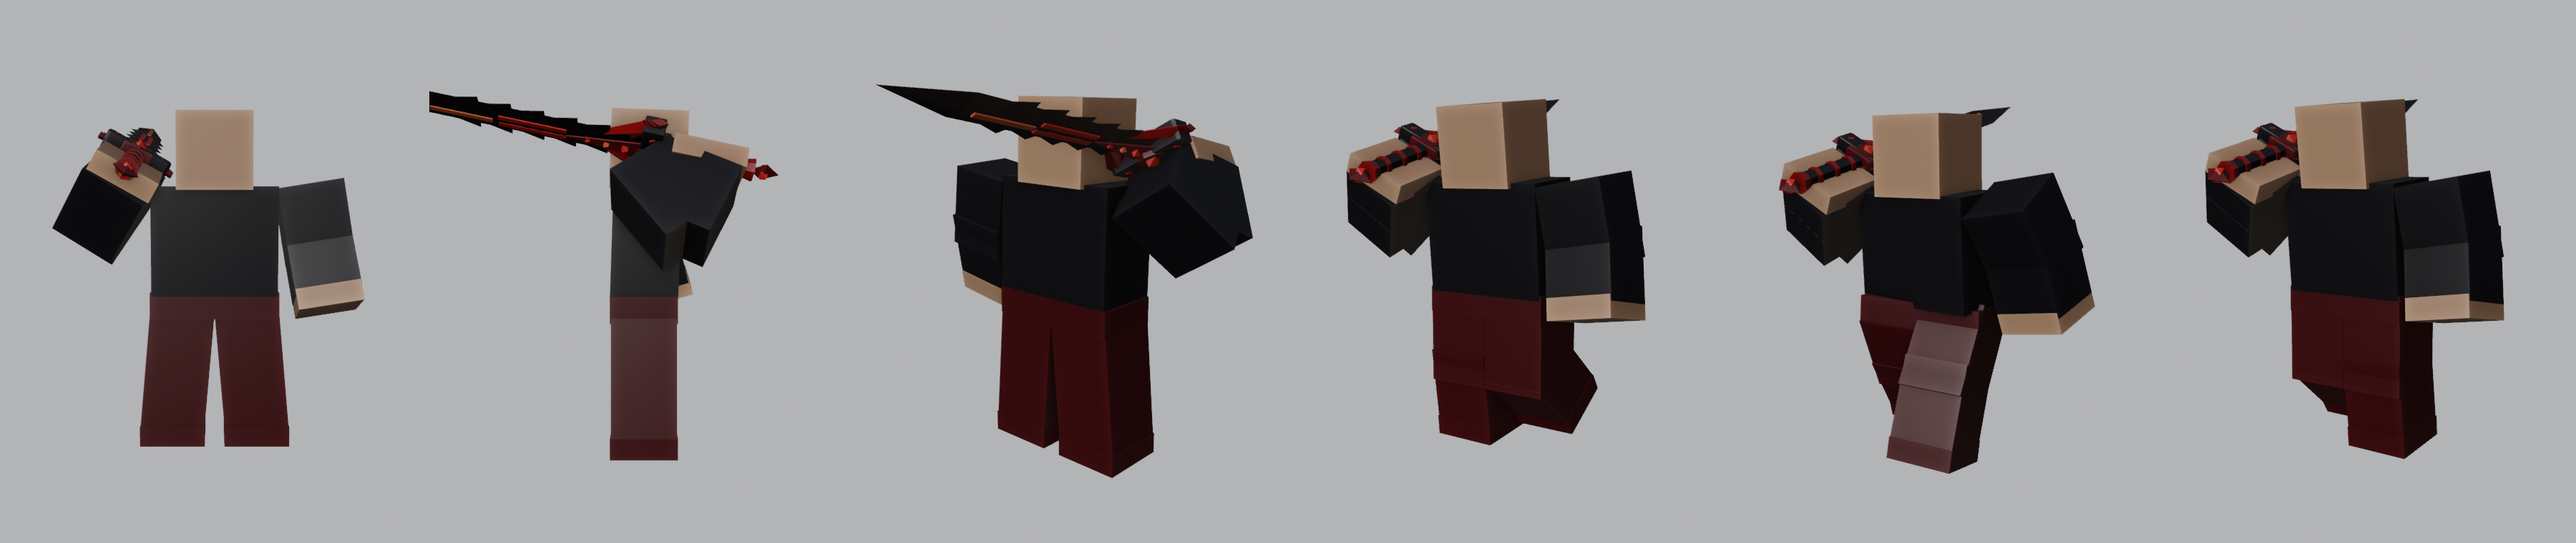
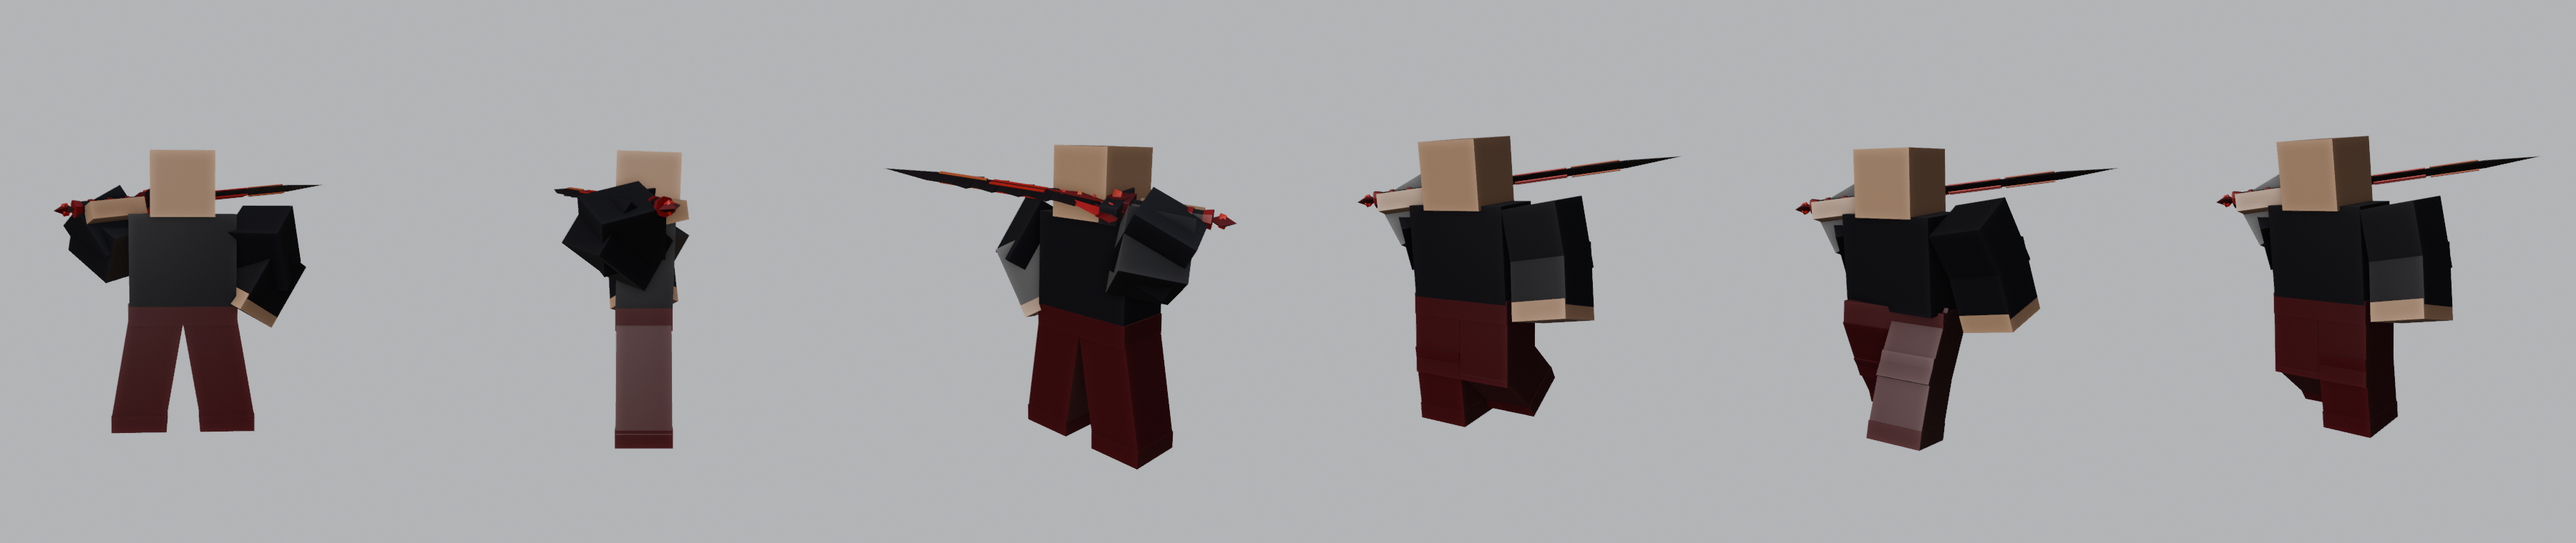
Sword carry: owner's pose 3, blade across the shoulders, hand on hip (GAME-35)

diff --git a/scripts/18_r15_anims.py b/scripts/18_r15_anims.py
@@ -1,6 +1,6 @@
 # 18_r15_anims.py: player sword animations on the R15 rig from 17_r15_rig.py (GAME-35).
-#   SwordIdle  (loop, 2.4 s): sword resting on the right shoulder, slow breathing and a small weight shift.
-#   SwordWalk  (loop, 1.0 s at walk speed 16): swaggering walk, sword stays on the shoulder, left arm swings,
+#   SwordIdle  (loop, 2.4 s): sword across the shoulders, left hand on the hip, wide stance, slow breathing.
+#   SwordWalk  (loop, 1.0 s at walk speed 16): swaggering walk, sword stays across the shoulders, left arm swings,
 #              hips and shoulders counter-twist, slight lean back, body bobs on each step.
 # Run headless (opens blender/r15_rig.blend, adds the actions, saves it back and renders previews):
 #   /Applications/Blender.app/Contents/MacOS/Blender -b goblin/blender/r15_rig.blend --python goblin/scripts/18_r15_anims.py
@@ -20,9 +20,11 @@ CHAIN = ["HumanoidRootPart", "LowerTorso", "UpperTorso", "Head", "RightUpperArm"
          "LeftUpperArm", "LeftLowerArm", "LeftHand", "RightUpperLeg", "RightLowerLeg", "RightFoot",
          "LeftUpperLeg", "LeftLowerLeg", "LeftFoot"]
 
-# The sword-on-shoulder carry: arm forward and a little out, elbow folded up, so the blade (forward at rest) ends up
-# pointing back and up over the right shoulder.
-CARRY = {"RightUpperArm": (-38, 32, 0), "RightLowerArm": (-118, 0, 0), "RightHand": (-16, 0, -6)}
+# The owner's pick (pose 3 of the reference sheet): sword laid across the shoulders behind the neck, hilt in the right
+# hand at the right shoulder, blade out past the left shoulder. Angles found by a numeric search for grip at
+# (-1.35, 0.05, 4.2) with the blade along (1, 0.5, 0.12); HIP_HAND puts the left hand on the hip (idle only).
+CARRY = {"RightUpperArm": (19.9, 239.6, 115.8), "RightLowerArm": (-129.0, 0, 110.9), "RightHand": (-23.6, 87.0, -90.6)}
+HIP_HAND = {"LeftUpperArm": (29.5, 0.3, -27.0), "LeftLowerArm": (-53.8, 0, -29.8)}
 
 
 def pose_matrices(rig, rot, lift=0.0):
@@ -78,19 +80,18 @@ def idle(rig):
         ph = 2 * math.pi * f / n
         b = math.sin(ph)
         rot = dict(CARRY)
-        rot["RightUpperArm"] = (-38 + 2 * b, 32, 0)
+        rot.update(HIP_HAND)
+        rot["RightUpperArm"] = (19.9 + 2 * b, 239.6, 115.8)
         rot.update({
             "LowerTorso": (0, 1.5 * b, 0),  # weight shift side to side
             "UpperTorso": (2 + 1.5 * b, -1.5 * b, 0),  # breathing, a slight lean back
             "Head": (-1 * b, 1 * b, 0),
-            "LeftUpperArm": (-4, -9 - 2 * b, 0),
-            "LeftLowerArm": (-14, 0, 0),
-            "LeftUpperLeg": (0, -5 - 1.5 * b, 0),
-            "RightUpperLeg": (0, 5 - 1.5 * b, 0),
-            "LeftFoot": (0, 5 + 1.5 * b, 0),
-            "RightFoot": (0, -5 + 1.5 * b, 0),
+            "LeftUpperLeg": (0, -10 - 1.5 * b, 0),  # wide stance
+            "RightUpperLeg": (0, 10 - 1.5 * b, 0),
+            "LeftFoot": (0, 10 + 1.5 * b, 0),
+            "RightFoot": (0, -10 + 1.5 * b, 0),
         })
-        key(rig, f, rot, lift=-0.03 * (1 - math.cos(ph)) / 2)
+        key(rig, f, rot, lift=-0.06 - 0.03 * (1 - math.cos(ph)) / 2)  # wide stance sits a little lower
 
 
 def walk(rig):
@@ -100,7 +101,7 @@ def walk(rig):
         ph = 2 * math.pi * f / n
         s, c = math.sin(ph), math.cos(ph)
         rot = dict(CARRY)
-        rot["RightUpperArm"] = (-38 + 3 * math.sin(2 * ph), 32, 0)
+        rot["RightUpperArm"] = (19.9 + 3 * math.sin(2 * ph), 239.6, 115.8)
         rot.update({
             # hips twist with the legs, shoulders counter-twist and lean back: the swagger
             "LowerTorso": (0, 3 * s, 7 * s),
@@ -130,12 +131,12 @@ def render(rig, path, shots):
     if cam.name not in sc.collection.objects:
         sc.collection.objects.link(cam)
     sc.camera = cam
-    cam.data.lens = 50
+    cam.data.lens = 42
     sc.render.resolution_x, sc.render.resolution_y = 600, 760
     tiles = []
     for i, (act, frame, at) in enumerate(shots):
         cam.location = at
-        cam.rotation_euler = (Vector((0, 0, 2.7)) - cam.location).to_track_quat("-Z", "Y").to_euler()
+        cam.rotation_euler = (Vector((0.6, 0, 2.9)) - cam.location).to_track_quat("-Z", "Y").to_euler()
         rig.animation_data.action = bpy.data.actions[act]
         sc.frame_set(frame)
         p = os.path.join(ROOT, "renders", "_tile%d.png" % i)
